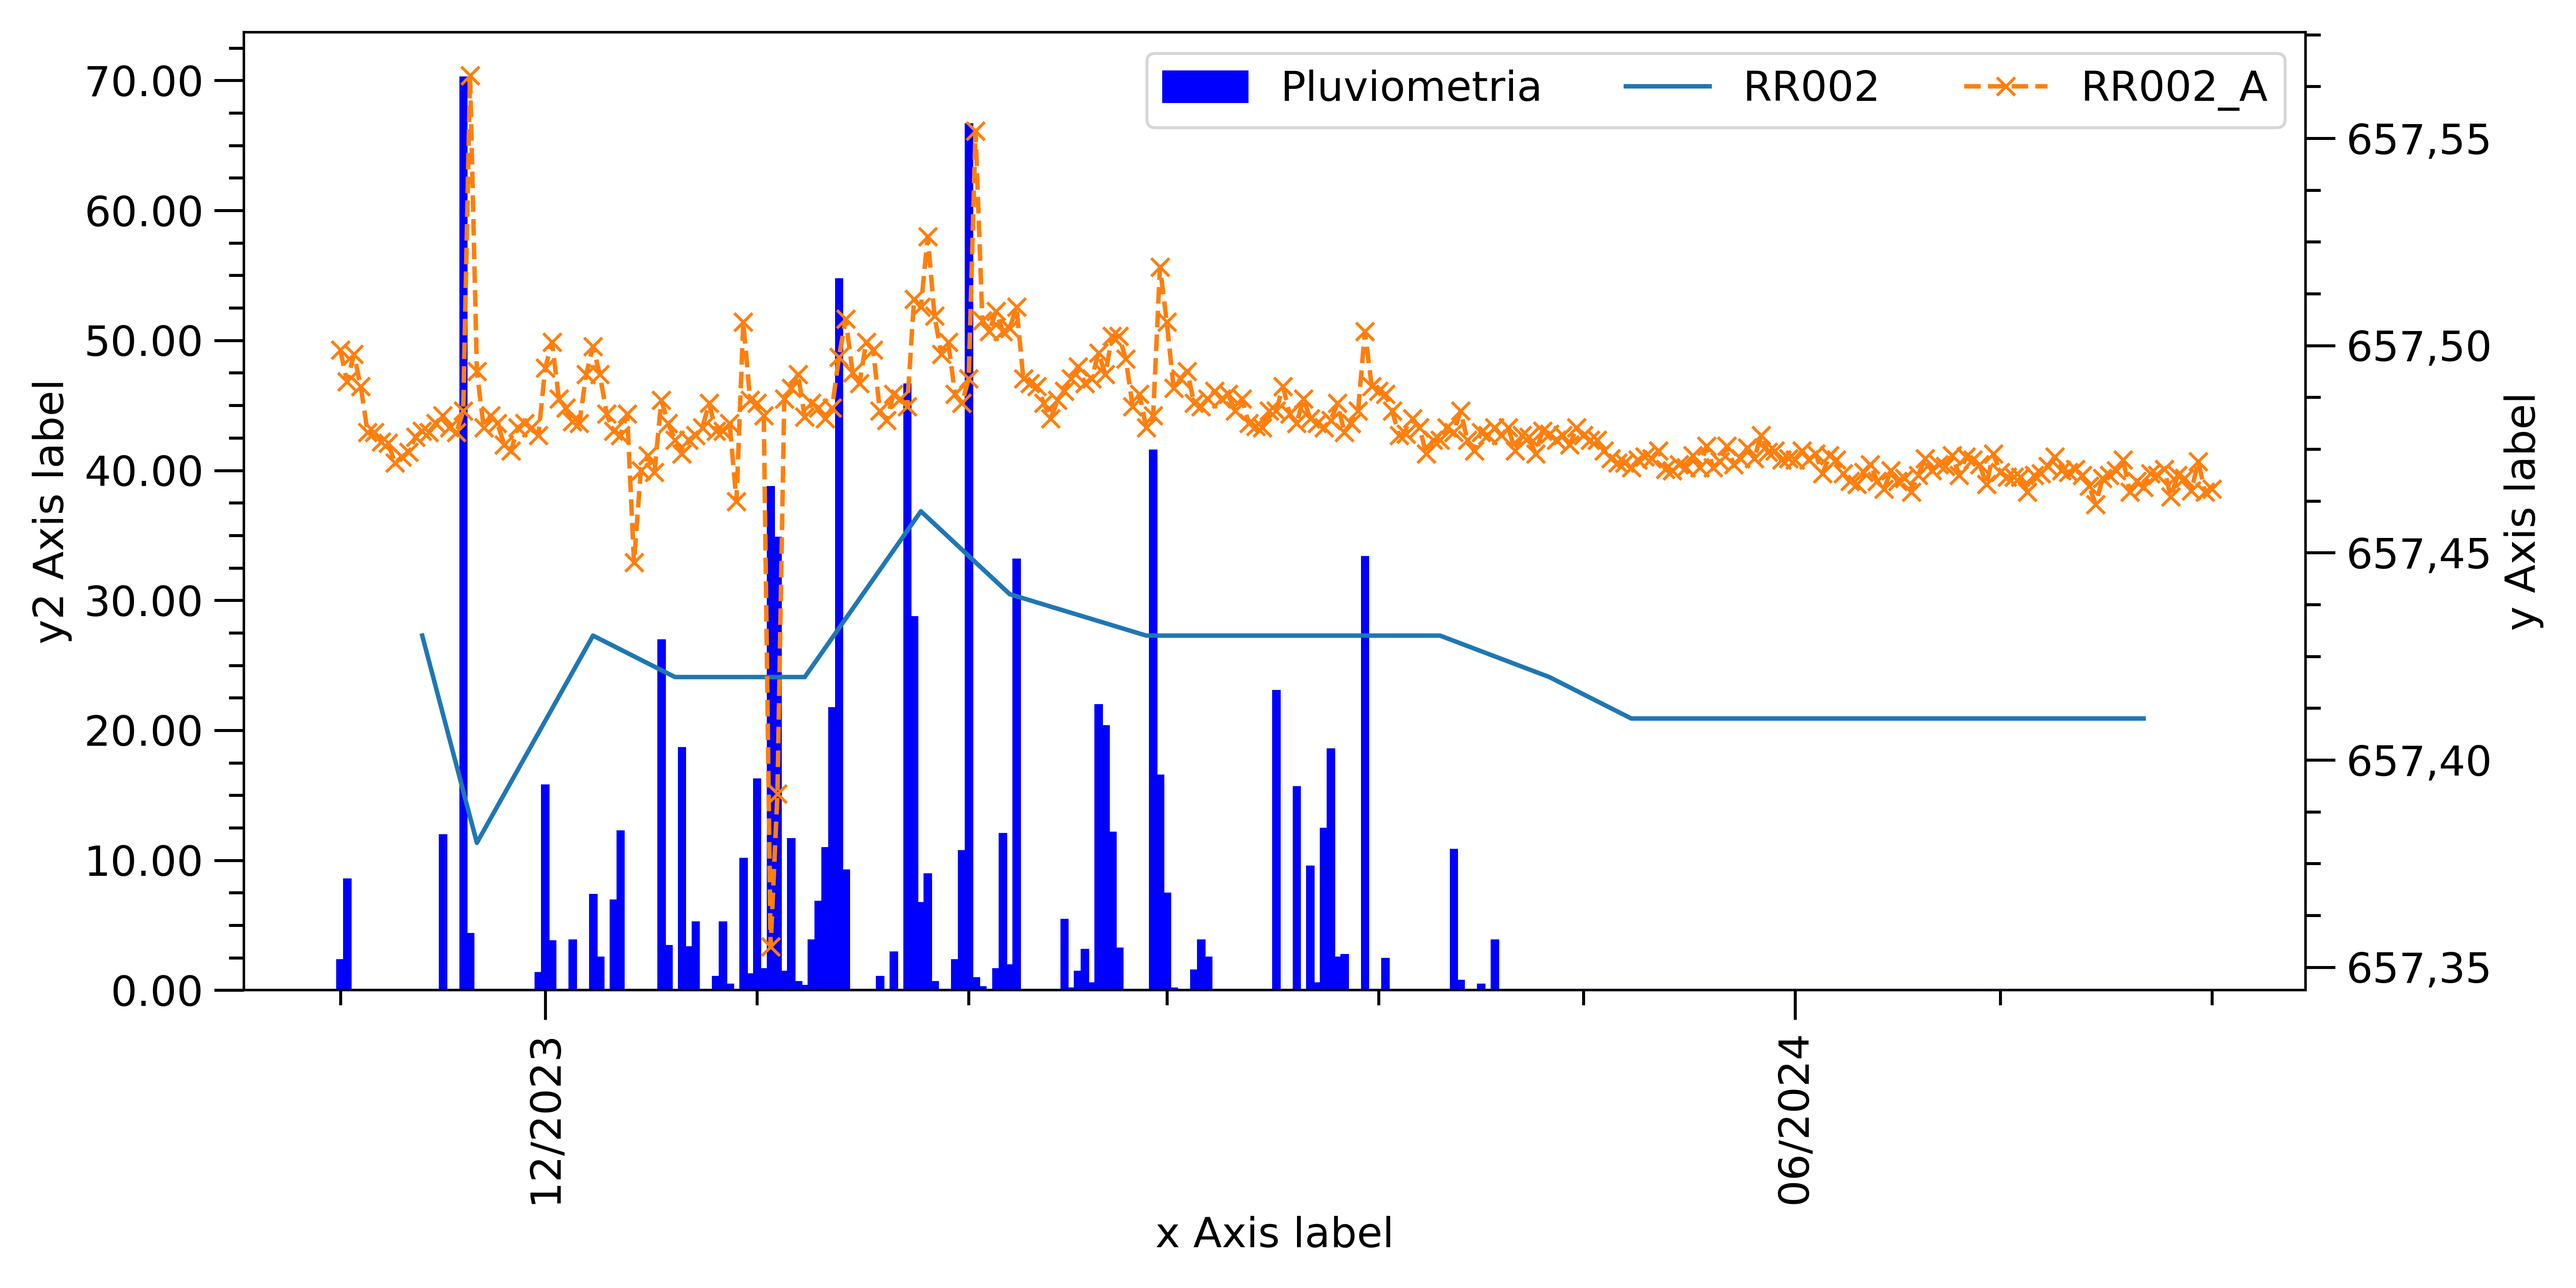
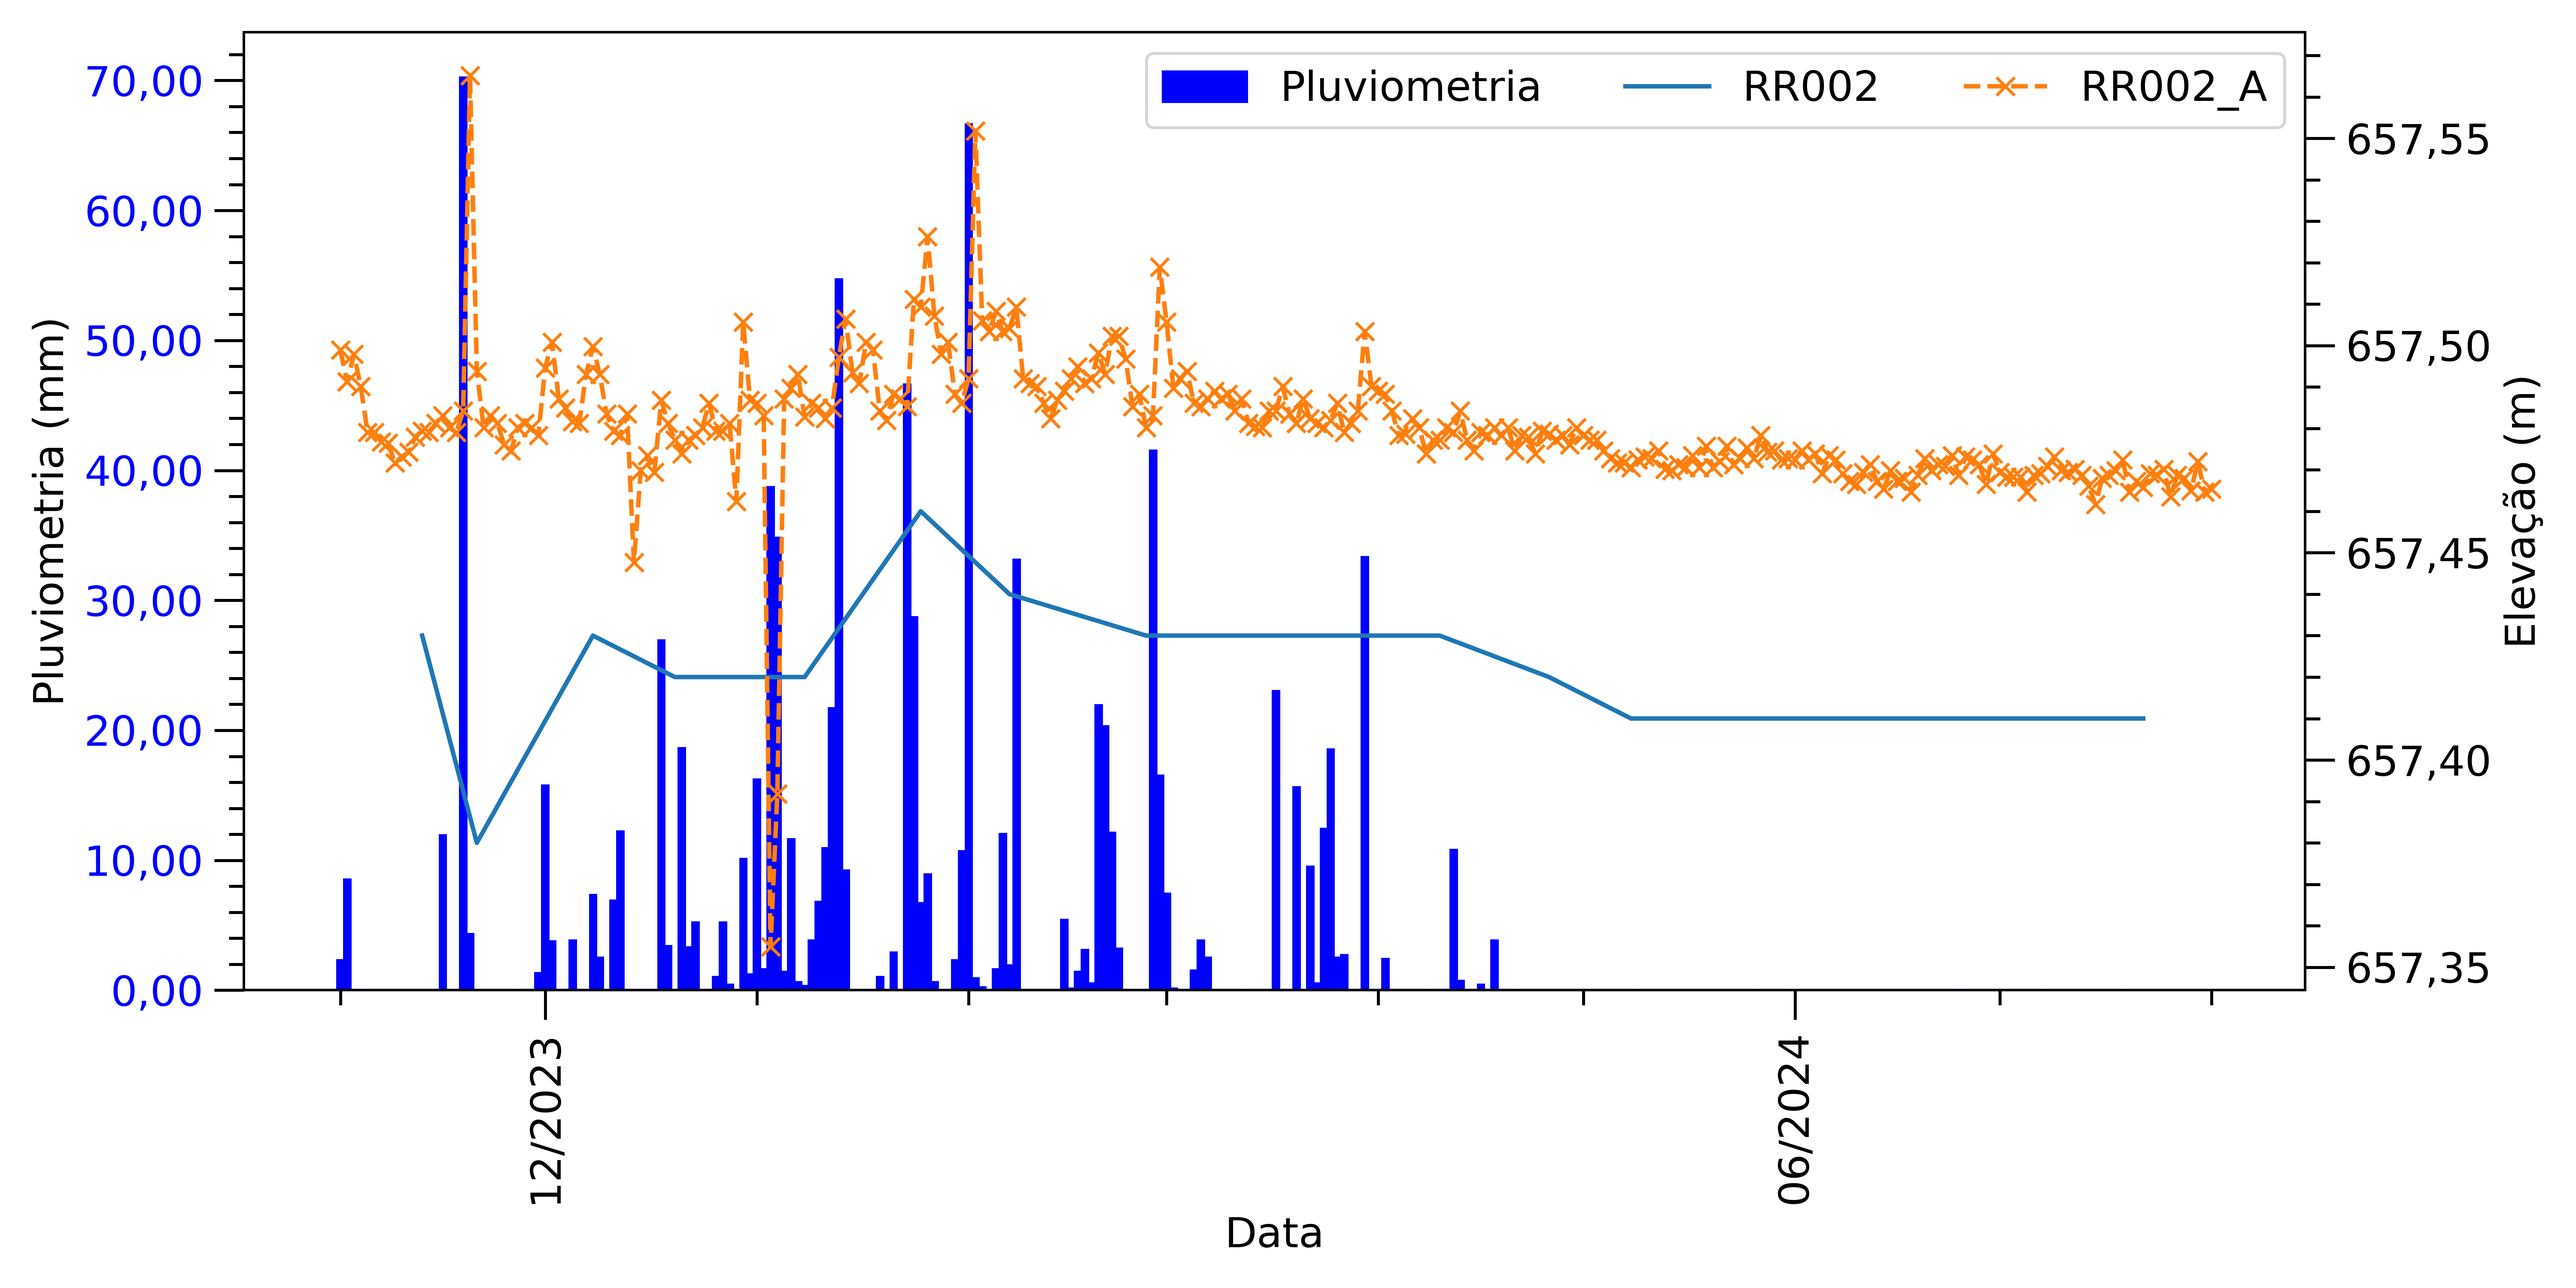
apply axisFormatting on Grafico.setup

diff --git a/modules/classes.py b/modules/classes.py
@@ -139,22 +139,60 @@ class Grafico():
             xMinorFormatter = "",
             yMajorFormatter = FuncFormatter(getFunctionToFuncFormatter(2)),
             yMinorFormatter = "",
-            y2MajorFormatter = "{x:.2f}",
+            y2MajorFormatter = FuncFormatter(getFunctionToFuncFormatter(2)),
             y2MinorFormatter = "",
             xMajorLocator = MonthLocator(interval=6),
             xMinorLocator = MonthLocator(interval=1),
             yMajorLocator = AutoLocator(),
-            yMinorLocator = AutoMinorLocator(4),
+            yMinorLocator = AutoMinorLocator(),
             y2MajorLocator = AutoLocator(),
-            y2MinorLocator = AutoMinorLocator(4),
+            y2MinorLocator = AutoMinorLocator(),
             invertSidesYAxis = True,
             figureAutoLayout = True,
+            grid = False,
             rectFigureBaseAdd_axes = [0.1, 0.2, 0.8, 0.7],
             xLabelTicksRotation = 90,
             yLabelTicksRotation = 0,
             y2LabelTicksRotation = 0,
-            axMargins = 0.0005,
-            ax2Margins = 0.0005,
+            axMargins = 0.1005,
+            ax2Margins = 0.1005,
+
+            xLabel = "Data",
+            xLabelFontsize = 14,
+            xFormatting = dict(
+                tickMajorWidth = 1.,
+                tickMinorWidth = 1.,
+                tickMajorLength = 10,
+                tickMinorLength = 5,
+                labelMajorSize = 14,
+                labelMinorSize = 10,
+                labelMajorColor = "black",
+                labelMinorColor = "black",                
+            ),
+            yLabel = "Elevação (m)",
+            yLabelFontsize = 14,
+            yFormatting = dict(
+                tickMajorWidth = 1.,
+                tickMinorWidth = 1.,
+                tickMajorLength = 10,
+                tickMinorLength = 5,
+                labelMajorSize = 14,
+                labelMinorSize = 10,
+                labelMajorColor = "black",
+                labelMinorColor = "black",                
+            ),
+            y2Label = "Pluviometria (mm)",
+            y2LabelFontsize = 14,
+            y2Formatting = dict(
+                tickMajorWidth = 1.,
+                tickMinorWidth = 1.,
+                tickMajorLength = 10,
+                tickMinorLength = 5,
+                labelMajorSize = 14,
+                labelMinorSize = 10,
+                labelMajorColor = "blue",
+                labelMinorColor = "black",                
+            ),
         )
         self.setup.update(setup)
         self.rendered = False
@@ -218,39 +256,23 @@ class Grafico():
             else:
                 self.objetcsArtist.append(serie.render(self.ax))
 
-        # Setup Axis
-        # Axis X
-        # xLabel = "",
-        # yLabel = "",
-        # y2Label = "",
-        # xLabelFontsize = 14,
-        # yLabelFontsize = 14,
-        # y2LabelFontsize = 14,
-        
-        # tickMajorWidth = 1.
-        # tickMinorWidth = 1.
-        # tickMajorLength = 10
-        # tickMinorLength = 10
-        # labelMajorSize = 14
-        # labelMinorSize = 10
-        # labelColor = "0.25" # Igual para o Major e Minor
         
         
         
-        self.ax.set_xlabel("x Axis label", fontsize=14)
+        self.ax.set_xlabel(self.setup["xLabel"], fontsize=self.setup["xLabelFontsize"])
+        self.ax.tick_params(which='major', axis="x", width=self.setup["xFormatting"]["tickMajorWidth"], length=self.setup["xFormatting"]["tickMajorLength"], labelsize=self.setup["xFormatting"]["labelMajorSize"], labelcolor=self.setup["xFormatting"]["labelMajorColor"])
+        self.ax.tick_params(which='minor', axis="x", width=self.setup["xFormatting"]["tickMinorWidth"], length=self.setup["xFormatting"]["tickMinorLength"], labelsize=self.setup["xFormatting"]["labelMinorSize"], labelcolor=self.setup["xFormatting"]["labelMinorColor"])
         self.ax.set_xlim(self.setup["xlim"][0],self.setup["xlim"][1])
-        self.ax.tick_params(which='major', width=1.0, length=10, labelsize=14, axis="x")
-        self.ax.tick_params(which='minor', width=1.0, length=5, labelsize=10, labelcolor='0.25', axis="x")
         self.ax.xaxis.set_major_locator(self.setup["xMajorLocator"])
         self.ax.xaxis.set_major_formatter(self.setup["xMajorFormatter"])
         self.ax.xaxis.set_minor_locator(self.setup["xMinorLocator"])
         self.ax.xaxis.set_minor_formatter(self.setup["xMinorFormatter"])
         self.ax.xaxis.set_tick_params(rotation=self.setup["xLabelTicksRotation"])
         if self.hasSecundary:
-            self.ax2.set_xlabel("x Axis label", fontsize=14)
+            self.ax2.set_xlabel(self.setup["xLabel"], fontsize=self.setup["xLabelFontsize"])
+            self.ax2.tick_params(which='major', axis="x", width=self.setup["xFormatting"]["tickMajorWidth"], length=self.setup["xFormatting"]["tickMajorLength"], labelsize=self.setup["xFormatting"]["labelMajorSize"], labelcolor=self.setup["xFormatting"]["labelMajorColor"])
+            self.ax2.tick_params(which='minor', axis="x", width=self.setup["xFormatting"]["tickMinorWidth"], length=self.setup["xFormatting"]["tickMinorLength"], labelsize=self.setup["xFormatting"]["labelMinorSize"], labelcolor=self.setup["xFormatting"]["labelMinorColor"])
             self.ax2.set_xlim(self.setup["xlim"][0],self.setup["xlim"][1])
-            self.ax2.tick_params(which='major', width=1.0, length=10, labelsize=14, axis="x")
-            self.ax2.tick_params(which='minor', width=1.0, length=5, labelsize=10, labelcolor='0.25', axis="x")
             self.ax2.xaxis.set_major_locator(self.setup["xMajorLocator"])
             self.ax2.xaxis.set_major_formatter(self.setup["xMajorFormatter"])
             self.ax2.xaxis.set_minor_locator(self.setup["xMinorLocator"])
@@ -258,10 +280,10 @@ class Grafico():
             self.ax2.xaxis.set_tick_params(rotation=self.setup["xLabelTicksRotation"])
 
         # Axis Y
-        self.ax.set_ylabel("y Axis label", fontsize=14)
+        self.ax.set_ylabel(self.setup["yLabel"], fontsize=self.setup["yLabelFontsize"])
+        self.ax.tick_params(which='major', axis="y", width=self.setup["yFormatting"]["tickMajorWidth"], length=self.setup["yFormatting"]["tickMajorLength"], labelsize=self.setup["yFormatting"]["labelMajorSize"], labelcolor=self.setup["yFormatting"]["labelMajorColor"])
+        self.ax.tick_params(which='minor', axis="y", width=self.setup["yFormatting"]["tickMinorWidth"], length=self.setup["yFormatting"]["tickMinorLength"], labelsize=self.setup["yFormatting"]["labelMinorSize"], labelcolor=self.setup["yFormatting"]["labelMinorColor"])
         self.ax.set_ylim(self.setup["ylim"][0],self.setup["ylim"][1])
-        self.ax.tick_params(which='major', width=1.0, length=10, labelsize=14, axis="y")
-        self.ax.tick_params(which='minor', width=1.0, length=5, labelsize=10, labelcolor='0.25', axis="y")
         self.ax.yaxis.set_major_locator(self.setup["yMajorLocator"])
         self.ax.yaxis.set_major_formatter(self.setup["yMajorFormatter"])
         self.ax.yaxis.set_minor_locator(self.setup["yMinorLocator"])
@@ -270,10 +292,10 @@ class Grafico():
         
         # Axis Y2        
         if self.hasSecundary:
-            self.ax2.set_ylabel("y2 Axis label", fontsize=14)
+            self.ax2.set_ylabel(self.setup["y2Label"], fontsize=self.setup["y2LabelFontsize"])
+            self.ax2.tick_params(which='major', axis="y", width=self.setup["y2Formatting"]["tickMajorWidth"], length=self.setup["y2Formatting"]["tickMajorLength"], labelsize=self.setup["y2Formatting"]["labelMajorSize"], labelcolor=self.setup["y2Formatting"]["labelMajorColor"])
+            self.ax2.tick_params(which='minor', axis="y", width=self.setup["y2Formatting"]["tickMinorWidth"], length=self.setup["y2Formatting"]["tickMinorLength"], labelsize=self.setup["y2Formatting"]["labelMinorSize"], labelcolor=self.setup["y2Formatting"]["labelMinorColor"])
             self.ax2.set_ylim(self.setup["y2lim"][0],self.setup["y2lim"][1])
-            self.ax2.tick_params(which='major', width=1.0, length=10, labelsize=14, axis="y")
-            self.ax2.tick_params(which='minor', width=1.0, length=5, labelsize=10, labelcolor='0.25', axis="y")
             self.ax2.yaxis.set_major_locator(self.setup["y2MajorLocator"])
             self.ax2.yaxis.set_major_formatter(self.setup["y2MajorFormatter"])
             self.ax2.yaxis.set_minor_locator(self.setup["y2MinorLocator"])
